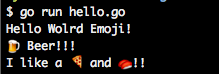
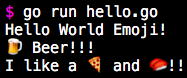
fixing typo in readme and demo

diff --git a/README.md b/README.md
@@ -31,7 +31,7 @@ import (
 )
 
 func main() {
-	fmt.Println("Hello Wolrd Emoji!")
+	fmt.Println("Hello World Emoji!")
 
 	emoji.Println(":beer: Beer!!!")
 
@@ -42,7 +42,7 @@ func main() {
 
 ## Demo
 
-![](https://raw.githubusercontent.com/kyokomi/emoji/master/screen/image.png)
+![demo](screen/image.png)
 
 ## Reference
 
